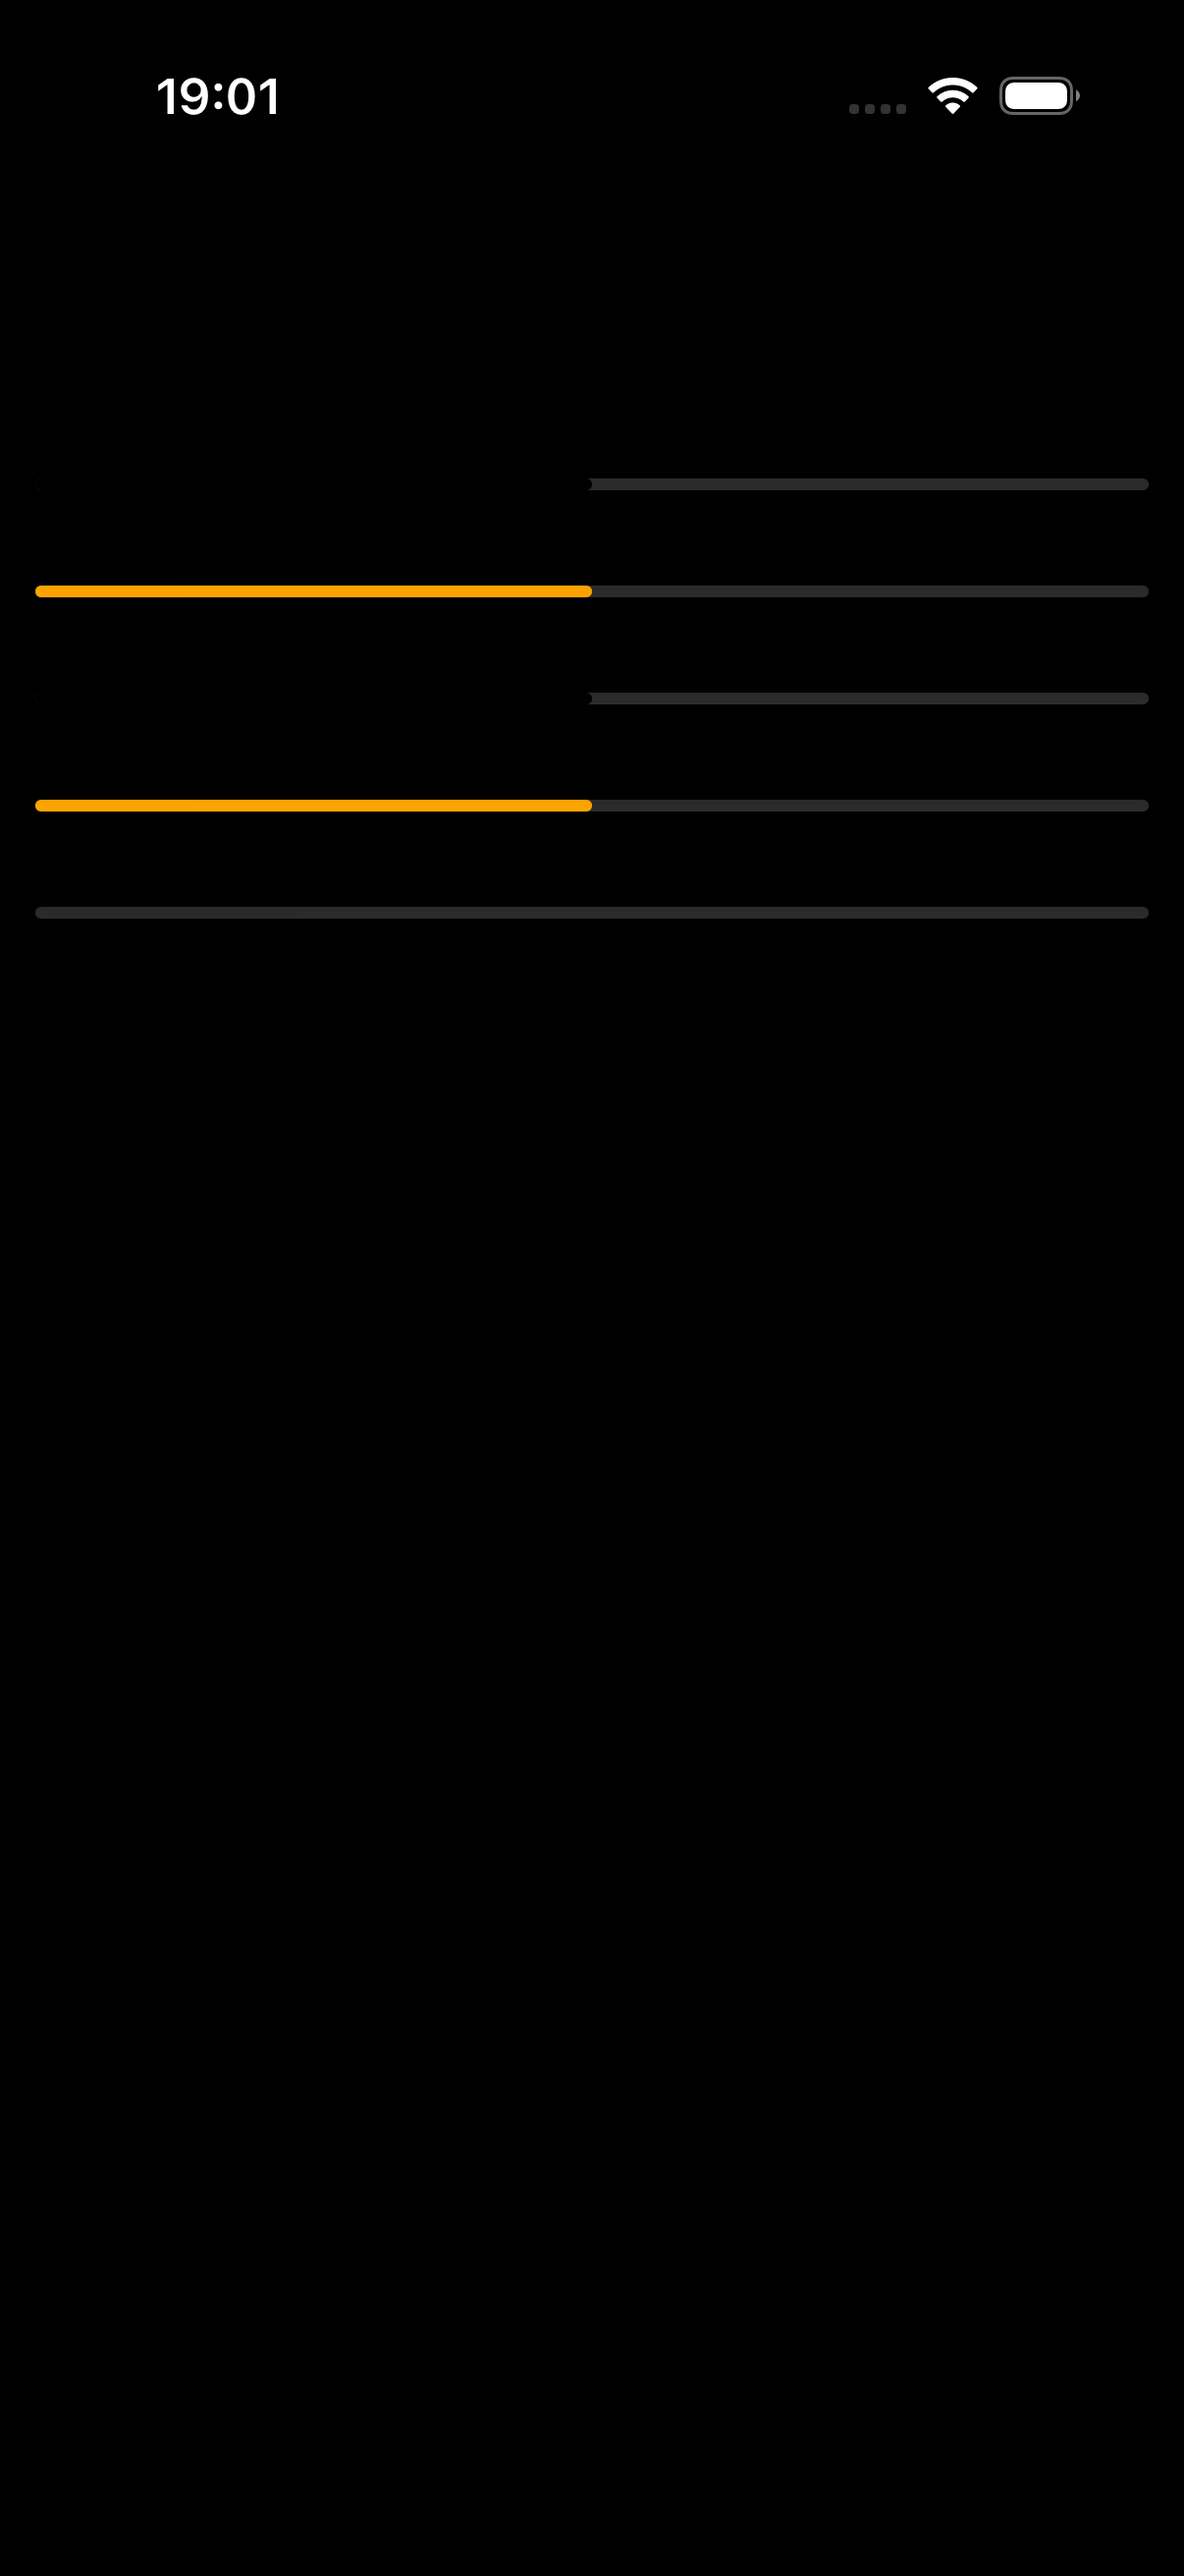
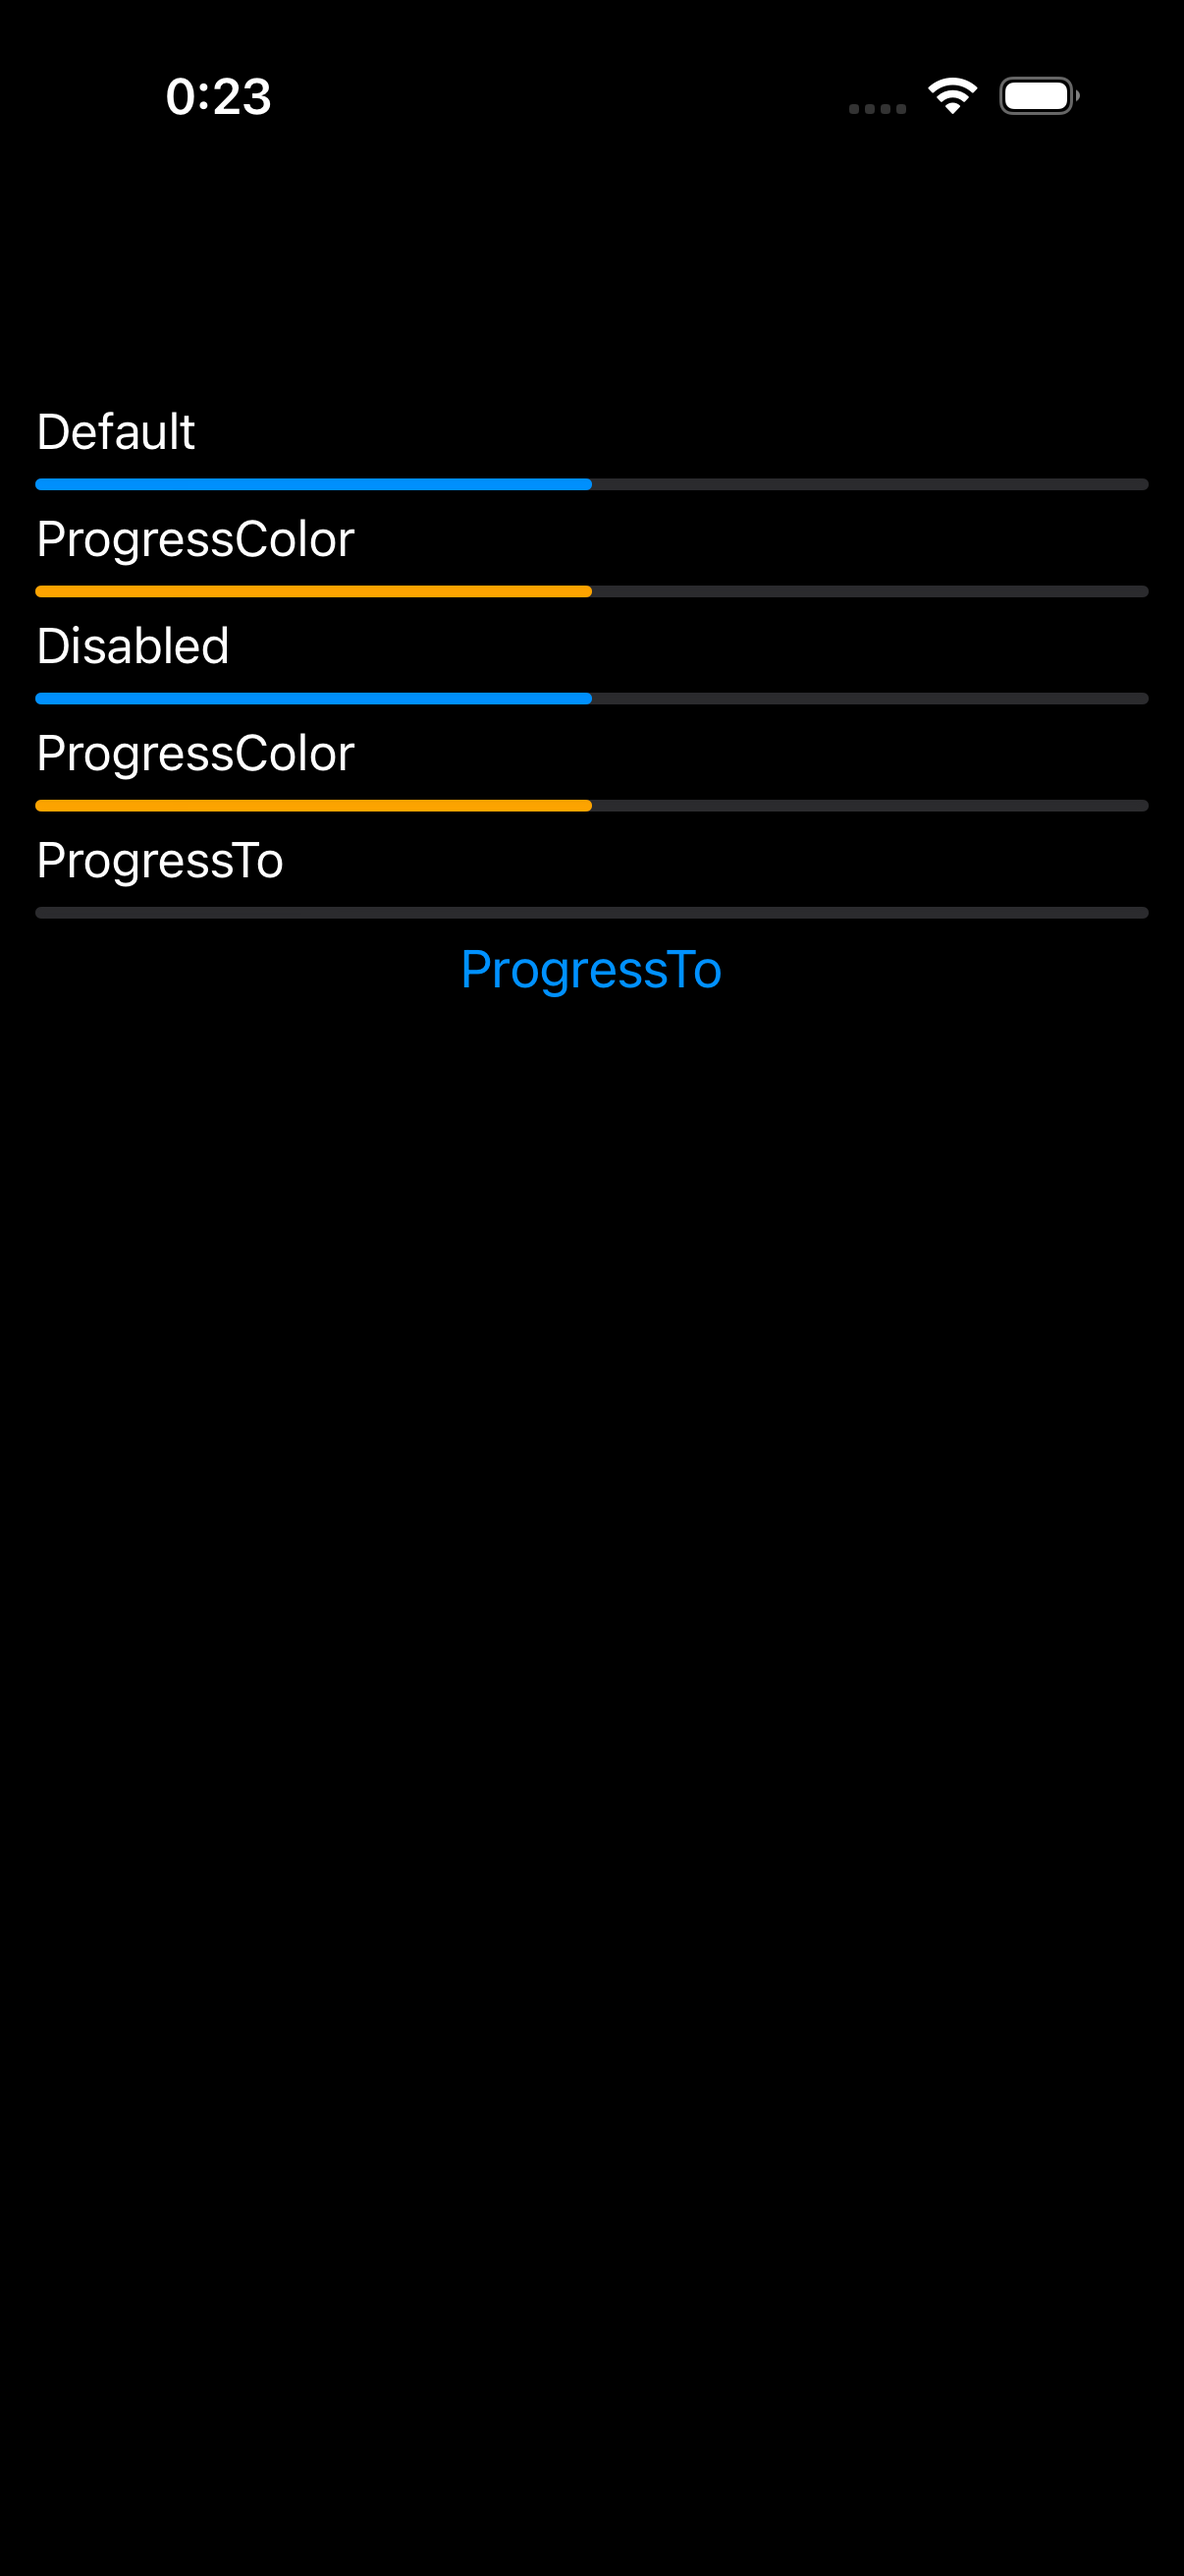
fix(ios,parity): ProgressBar default ProgressColor restores native blue tint (not transparent)
example 14/172 (progress_bar): the Default + Disabled bars showed no fill — only the
gray track's right portion was visible, making the bars look mis-positioned/right-
aligned. Root cause: an unset ProgressColor was forced to to_ui_color(default) — a
transparent tint that hid the progress fill. Now unset -> nil, restoring the
UIProgressView native blue (C# UpdateProgressColor's null branch calls
ResetProgressTintColor). This fixed both the missing blue fill AND the apparent
layout offset: every bar now renders full-width below its label matching MAUI
(blue default + orange ProgressColor + gray tracks).

Verified: sim-captured both themes; 11 progress ios tests pass; clang-tidy 0.
Residual is the demo bold-label difference. Tracker: progress_bar pending->minor (14 minor).

diff --git a/port/cpp/src/platform/ios/progress_bar_handler.mm b/port/cpp/src/platform/ios/progress_bar_handler.mm
@@ -102,8 +102,12 @@ namespace maui::core
     {
         if (auto* platform = handler.typed_platform_view())
         {
-            // ProgressBarExtensions.UpdateProgressColor (the nullable collapse — see the header).
-            as_bar(platform->native).progressTintColor = to_ui_color(view.progress_color());
+            // ProgressBarExtensions.UpdateProgressColor: an unset (default-constructed) ProgressColor must
+            // leave the UIProgressView's native default tint (the system blue), NOT a transparent fill —
+            // to_ui_color(unset) is a clear color that hides the progress fill. nil restores the default
+            // (C# calls ResetProgressTintColor in the null branch).
+            const maui::graphics::color color = view.progress_color();
+            as_bar(platform->native).progressTintColor = color != maui::graphics::color{} ? to_ui_color(color) : nil;
         }
     }
 

diff --git a/port/cpp/docs/comparison/README.md b/port/cpp/docs/comparison/README.md
@@ -2,7 +2,7 @@
 
 Theme-matched iOS comparison: each page rendered by **real .NET MAUI** vs the **C++ port**, on the same iPhone 17 simulator, compared **light-vs-light** and **dark-vs-dark**. Both stacks render native-default controls + the system font (the C# app's `dotnet new maui` default `Styles.xaml` + OpenSans are stripped; appearance forced via `MAUI_THEME` / `MAUI_APPEARANCE`). Goal: pixel-perfect parity, fixed example-by-example.
 
-**Progress: 0 / 172 🟢 matched** · 13 🟡 minor · 53 🔴 diff · 106 ⬜ pending
+**Progress: 0 / 172 🟢 matched** · 14 🟡 minor · 53 🔴 diff · 105 ⬜ pending
 
 Status legend: 🟢 pixel-match (both themes) · 🟡 minor diff · 🔴 notable diff to fix · ⬜ not yet reviewed. Per-theme verdicts in `parity_status.json`.
 
@@ -25,7 +25,7 @@ Rows are in **fix order** (top → bottom): foundational single controls first (
 | 11 | Stepper | 🟡<br>L:minor<br>D:minor | ![](csharp_ios_light/stepper.png) | ![](cpp_ios_light/stepper.png) | ![](csharp_ios_dark/stepper.png) | ![](cpp_ios_dark/stepper.png) |
 | 12 | Switch | 🟡<br>L:minor<br>D:minor | ![](csharp_ios_light/switch.png) | ![](cpp_ios_light/switch.png) | ![](csharp_ios_dark/switch.png) | ![](cpp_ios_dark/switch.png) |
 | 13 | Check Box | 🟡<br>L:minor<br>D:minor | ![](csharp_ios_light/check_box.png) | ![](cpp_ios_light/check_box.png) | ![](csharp_ios_dark/check_box.png) | ![](cpp_ios_dark/check_box.png) |
-| 14 | Progress Bar | ⬜<br>L:pending<br>D:pending | ![](csharp_ios_light/progress_bar.png) | ![](cpp_ios_light/progress_bar.png) | ![](csharp_ios_dark/progress_bar.png) | ![](cpp_ios_dark/progress_bar.png) |
+| 14 | Progress Bar | 🟡<br>L:minor<br>D:minor | ![](csharp_ios_light/progress_bar.png) | ![](cpp_ios_light/progress_bar.png) | ![](csharp_ios_dark/progress_bar.png) | ![](cpp_ios_dark/progress_bar.png) |
 | 15 | Activity Indicator | 🔴<br>L:diff<br>D:blank | ![](csharp_ios_light/activity_indicator.png) | ![](cpp_ios_light/activity_indicator.png) | ![](csharp_ios_dark/activity_indicator.png) | ![](cpp_ios_dark/activity_indicator.png) |
 | 16 | Indicator | ⬜<br>L:pending<br>D:pending | ![](csharp_ios_light/indicator.png) | ![](cpp_ios_light/indicator.png) | ![](csharp_ios_dark/indicator.png) | ![](cpp_ios_dark/indicator.png) |
 | 17 | Image | ⬜<br>L:pending<br>D:pending | ![](csharp_ios_light/image.png) | ![](cpp_ios_light/image.png) | ![](csharp_ios_dark/image.png) | ![](cpp_ios_dark/image.png) |
